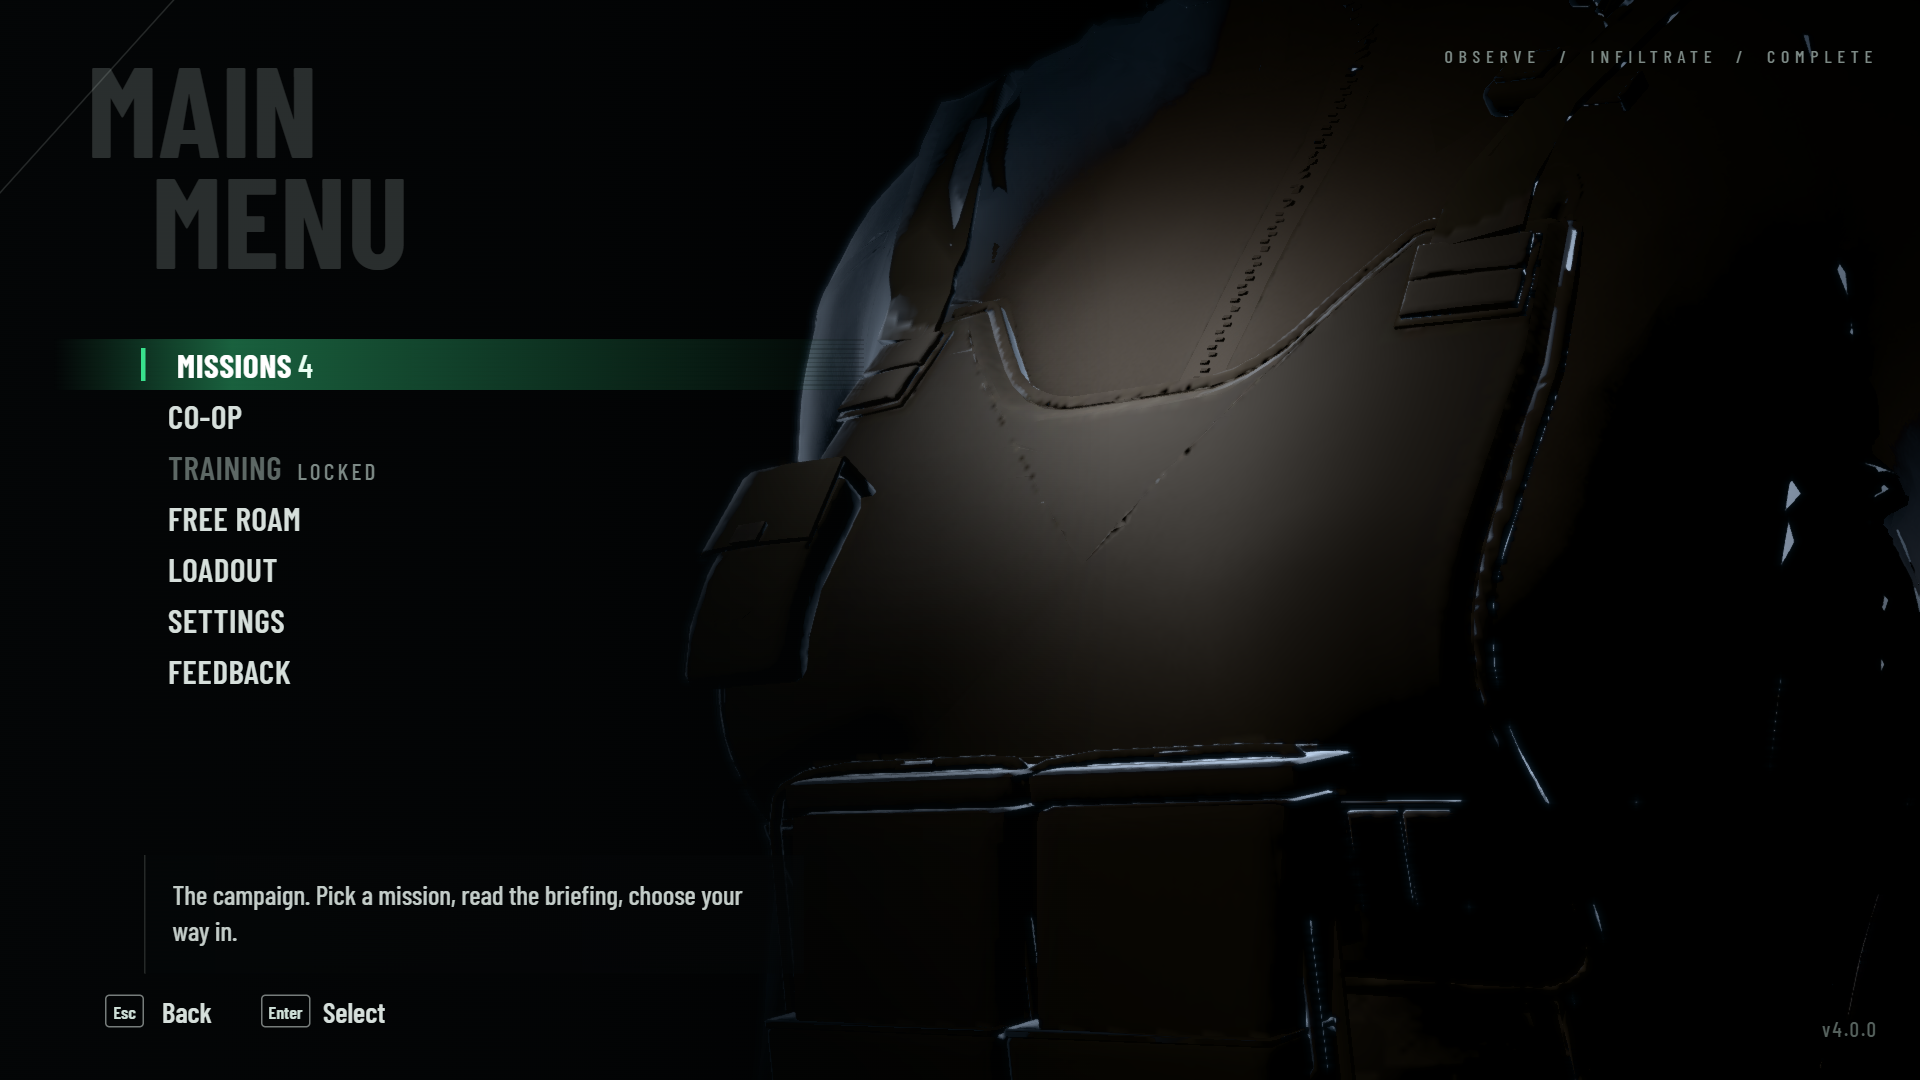
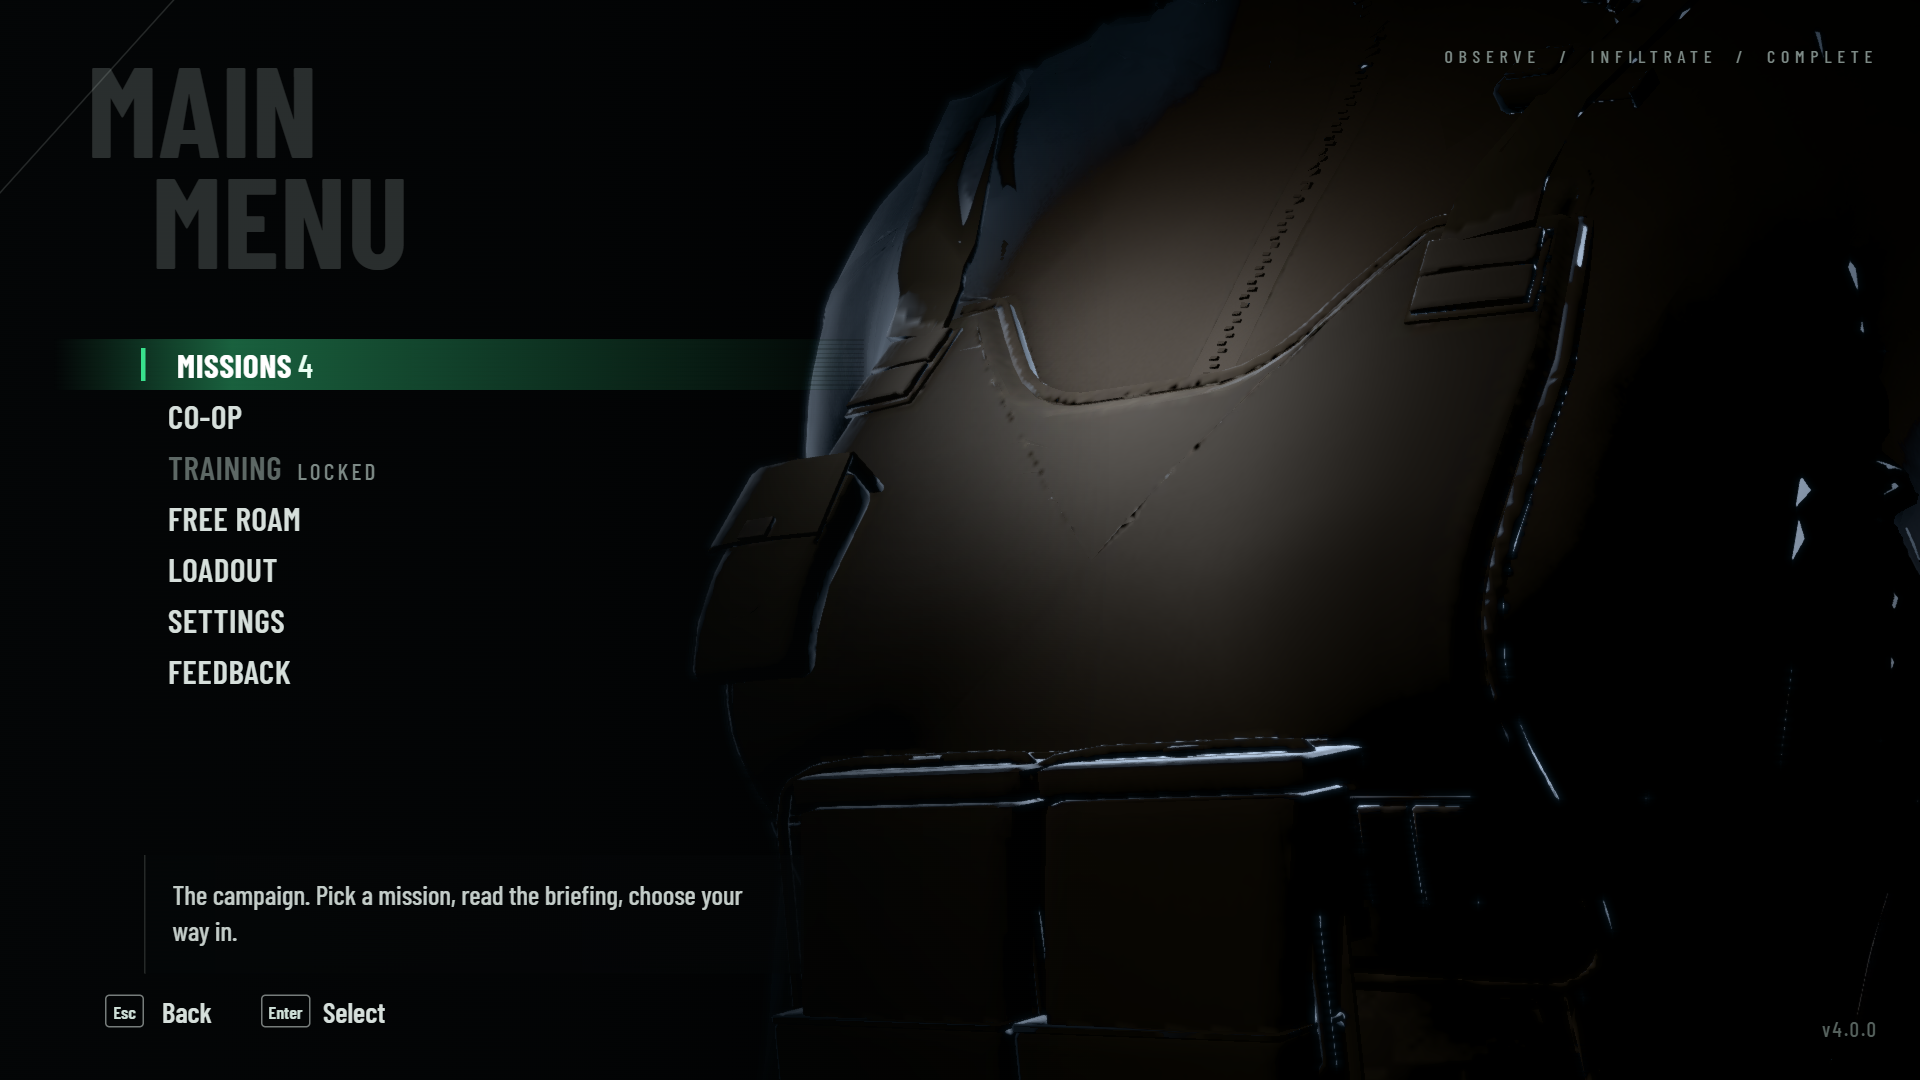
menu slice 6: fine-tune - light, framing, depth of field, dutch roll, eased fades, authored goggle flicker
H1 clear of the description panel; H3/H4 framed onto the pouches; H2/H6 keys rake the
plates; per-shot DOF lens (H1 62 mm); dutch roll on H1, H3, H5; smoothstep black fades;
the title flicker is an authored pattern. Void shadows stay off (the arm blocked the key).

diff --git a/src/world/menuSets.ts b/src/world/menuSets.ts
@@ -47,6 +47,10 @@ export interface HeroShot {
   id: string;
   /** Vertical field of view (rad): a long lens is small. */
   fov: number;
+  /** Depth of field focal length (mm, where the preset has depth of field): longer = a shallower field. Default 50. */
+  lensMm?: number;
+  /** A dutch roll (rad, + clockwise on screen), subtle. */
+  roll?: number;
   from: CamPose;
   to: CamPose;
   /** Where Wren sits across the frame: 0 centre, 1 the right edge (keeps the menu list over black on the left). */
@@ -91,19 +95,19 @@ function macro(target: V3, camAlpha: number, side: number, key: number, keyUp: n
   const cam = -Math.PI / 2 + camAlpha;
   return [
     around(target, cam + side * 1.65, keyUp, 0.85, 0.34, key, KEY, sweep),
-    around(target, cam - side * 2.7, 0.3, 0.9, 0.5, 6, RIM),
+    around(target, cam - side * 2.7, 0.3, 0.9, 0.5, 7, RIM),
     around(target, cam + side * 2.6, 0.2, 0.9, 0.5, 2.5, RIM),
   ];
 }
 
-function equip(id: string, fov: number, from: CamPose, to: CamPose, lights: [SetLight, SetLight, SetLight]): HeroShot {
-  return { id, fov: fov * DEG, from, to, frameX: 0.3, lights };
+function equip(id: string, fov: number, from: CamPose, to: CamPose, lights: [SetLight, SetLight, SetLight], lensMm?: number, roll = 0): HeroShot {
+  return { id, fov: fov * DEG, from, to, frameX: 0.3, lights, lensMm, roll };
 }
 
 /** The title's light (also the main menu's opening hold): a low-key face, a rim, and the goggle's green thrown on the
  *  brow and cheeks (light 2, scaled by the goggle level). */
 const FACE: [SetLight, SetLight, SetLight] = [
-  { pos: [0.5, 1.85, -0.8], at: [0, 1.56, -0.05], angle: 0.5, exponent: 3, intensity: 1.8, color: KEY },
+  { pos: [0.5, 1.85, -0.8], at: [0, 1.56, -0.05], angle: 0.5, exponent: 3, intensity: 2.7, color: KEY },
   { pos: [-0.65, 1.85, 0.55], at: [0, 1.64, 0], angle: 0.5, exponent: 3, intensity: 9, color: RIM },
   { pos: [0, 1.57, -0.3], at: [0, 1.53, 0], angle: 0.7, exponent: 2, intensity: 0.22, color: NV },
 ];
@@ -135,17 +139,17 @@ export const HERO_SHOTS: readonly HeroShot[] = [
     glowLight: 2,
   },
   // the goggle housing and its mount: low from her left front, a long lens arcing in
-  equip('H1', 18, { alpha: 0.85, beta: 1.68, radius: 0.62, target: [0.03, 1.6, -0.12] }, { alpha: 0.55, beta: 1.64, radius: 0.56, target: [0.02, 1.6, -0.13] }, macro([0.02, 1.6, -0.12], 0.7, 1, 2.2, 0.9)),
-  // the plate carrier's front plate: low from her left, pushing in
-  equip('H2', 22, { alpha: 0.75, beta: 1.72, radius: 0.75, target: [0.02, 1.22, -0.13] }, { alpha: 0.62, beta: 1.68, radius: 0.64, target: [0.02, 1.22, -0.14] }, macro([0.02, 1.22, -0.13], 0.7, -1, 4, 0.8)),
+  equip('H1', 18, { alpha: 0.85, beta: 1.68, radius: 0.66, target: [0.03, 1.565, -0.17] }, { alpha: 0.55, beta: 1.64, radius: 0.6, target: [0.02, 1.565, -0.18] }, macro([0.02, 1.6, -0.12], 0.7, 1, 2.2, 0.9), 62, 0.07),
+  // the plate carrier's front plate: low from her left, pushing in while the key slides down the plate
+  equip('H2', 22, { alpha: 0.75, beta: 1.72, radius: 0.75, target: [0.02, 1.22, -0.13] }, { alpha: 0.62, beta: 1.68, radius: 0.64, target: [0.02, 1.22, -0.14] }, macro([0.02, 1.22, -0.13], 0.7, -1, 4, 0.8, [0, 0.07, 0])),
   // the magazine pouches on the carrier: low from her right, sliding across while the key sweeps over them
-  equip('H3', 22, { alpha: -0.7, beta: 1.78, radius: 0.72, target: [-0.08, 1.14, -0.13] }, { alpha: -0.55, beta: 1.74, radius: 0.68, target: [0.06, 1.14, -0.14] }, macro([0, 1.14, -0.13], -0.62, 1, 3.2, 0.5, [0.1, 0, 0])),
+  equip('H3', 22, { alpha: -0.7, beta: 1.74, radius: 0.72, target: [-0.05, 1.06, -0.13] }, { alpha: -0.55, beta: 1.7, radius: 0.68, target: [-0.02, 1.06, -0.14] }, macro([-0.03, 1.06, -0.13], -0.62, 1, 7, 0.5, [0.06, 0, 0]), undefined, -0.09),
   // the belt pouches: low three-quarter from her left, sliding along the belt under a grazing beam
-  equip('H4', 20, { alpha: 0.9, beta: 1.76, radius: 0.82, target: [0.16, 1.0, -0.08] }, { alpha: 0.75, beta: 1.74, radius: 0.76, target: [0.02, 1.0, -0.12] }, macro([0.1, 1.0, -0.1], 0.82, -1, 3.5, 0.25, [0.12, 0, -0.04])),
+  equip('H4', 20, { alpha: 0.45, beta: 1.68, radius: 0.82, target: [-0.05, 0.9, -0.12] }, { alpha: 0.35, beta: 1.66, radius: 0.76, target: [-0.15, 0.9, -0.13] }, macro([-0.09, 0.87, -0.12], 0.4, -1, 3.5, 0.25, [0.12, 0, -0.04])),
   // the thigh holster and pocket on the right leg: from her right, arcing round the front
-  equip('H5', 22, { alpha: -1.35, beta: 1.62, radius: 0.7, target: [-0.17, 0.72, -0.02] }, { alpha: -1.0, beta: 1.58, radius: 0.66, target: [-0.17, 0.74, -0.04] }, macro([-0.17, 0.73, -0.03], -1.18, -1, 2.6, 0.7)),
+  equip('H5', 22, { alpha: -1.35, beta: 1.62, radius: 0.7, target: [-0.17, 0.72, -0.02] }, { alpha: -1.0, beta: 1.58, radius: 0.66, target: [-0.17, 0.74, -0.04] }, macro([-0.17, 0.73, -0.03], -1.18, -1, 2.6, 0.7), undefined, 0.12),
   // the back plate and the kit on it: high from behind her left shoulder, arcing round
-  equip('H6', 26, { alpha: 2.55, beta: 1.2, radius: 0.95, target: [0.02, 1.25, 0.12] }, { alpha: 2.95, beta: 1.25, radius: 0.88, target: [0, 1.25, 0.12] }, macro([0.01, 1.25, 0.12], 2.75, 1, 4.5, 0.8)),
+  equip('H6', 26, { alpha: 2.55, beta: 1.2, radius: 0.95, target: [0.02, 1.25, 0.12] }, { alpha: 2.95, beta: 1.25, radius: 0.88, target: [0, 1.25, 0.12] }, macro([0.01, 1.25, 0.12], 2.75, 1, 7.5, 1.15)),
 ];
 
 /** A visible light cone: additive, fading from the lamp to its far end (apex at the origin, along -Y). */

diff --git a/src/world/menuScene.ts b/src/world/menuScene.ts
@@ -105,6 +105,9 @@ export class MenuState implements AppState {
   private prevRadius = 1;
   private prevFov = 0.8;
   private prevOffset = 0;
+  /** The camera's up for a dutch roll (reused), and the roll it holds now. */
+  private readonly up = new Vector3(0, 1, 0);
+  private rollNow = 0;
   private readonly stageMeshes: AbstractMesh[];
   private activeSet = '';
   private snap = true;
@@ -243,17 +246,17 @@ export class MenuState implements AppState {
       this.shadows.length = 0;
       if (sh.casters > 0) {
         for (const l of this.spots.slice(0, 2)) {
-          l.shadowMinZ = 0.5;
-          if (!this.activeSet || this.activeSet === 'stage') l.shadowMaxZ = 12;
+          if (!this.activeSet || this.activeSet === 'stage') {
+            l.shadowMinZ = 0.5;
+            l.shadowMaxZ = 12;
+          }
           const g = new ShadowGenerator(Math.max(1024, sh.size), l);
           if (sh.soft) {
             g.useContactHardeningShadow = true;
             g.contactHardeningLightSizeUVRatio = 0.05;
           } else g.usePercentageCloserFiltering = true;
           g.filteringQuality = ShadowGenerator.QUALITY_HIGH;
-          g.bias = 0.0008;
-          g.normalBias = 0.01;
-          g.darkness = this.activeSet && this.activeSet !== 'stage' ? 0 : 0.1;
+          this.tuneShadow(g, !!this.activeSet && this.activeSet !== 'stage');
           const sm = g.getShadowMap();
           if (sm) {
             // every mesh but the beams and the floor itself (null list = the whole scene)
@@ -375,7 +378,8 @@ export class MenuState implements AppState {
       for (let i = 0; i < 3; i++) {
         const s = this.spots[i]!;
         this.light(s, set.lights[i]!, VOID_ORIGIN);
-        // no shadows on the close-ups: at this range the body's self-shadow turns it black (acne); polish list
+        // no shadows on the close-ups: a fitted key shadow (bias 0.004) was tried and the arm and shoulders swallowed the
+        // raking key on most pieces (H2-H6 went dark); the rim-and-key look reads better unshadowed
         s.shadowEnabled = false;
       }
       this.hemi.intensity = 0;
@@ -391,15 +395,44 @@ export class MenuState implements AppState {
         s.diffuse.set(...l.color);
         s.specular.set(0.2, 0.2, 0.2);
         s.range = 16;
+        s.shadowMinZ = 0.5;
         s.shadowMaxZ = 12;
         s.shadowEnabled = true;
       });
       this.scene.clearColor.set(0.02, 0.027, 0.043, 1);
       this.camera.fov = 0.8;
+      this.stack.lensMm = 50;
+      this.dutch(0);
       this.setGlow(1);
     }
-    for (const g of this.shadows) g.darkness = set ? 0 : 0.1;
+    for (const g of this.shadows) this.tuneShadow(g, !!set);
     this.weaponLight();
+  }
+
+  /** A dutch roll (rad) about the view axis: the camera's up turned round the line of sight. ArcRotateCamera orbits
+   *  in its up's frame, but a turn about the view axis leaves the orbit offset (along that axis) where it was. */
+  private dutch(roll: number): void {
+    if (roll === 0 && this.rollNow === 0) return;
+    this.rollNow = roll;
+    const c = this.camera;
+    const sb = Math.sin(c.beta);
+    // the view direction (camera to target)
+    const dx = -Math.cos(c.alpha) * sb;
+    const dy = -Math.cos(c.beta);
+    const dz = -Math.sin(c.alpha) * sb;
+    const cr = Math.cos(roll);
+    const sr = Math.sin(roll);
+    // Rodrigues: up' = up cos r + (d x up) sin r + d (d . up)(1 - cos r), up = +Y
+    this.up.set(-dz * sr + dx * dy * (1 - cr), cr + dy * dy * (1 - cr), dx * sr + dz * dy * (1 - cr));
+    c.upVector = this.up;
+  }
+
+  /** Shadow filtering for the stage or the void's close-ups (a larger bias at macro range keeps the self-shadow clean,
+   *  and the shadow side keeps a trace of the key so the material still reads). */
+  private tuneShadow(g: ShadowGenerator, close: boolean): void {
+    g.bias = close ? 0.004 : 0.0008;
+    g.normalBias = close ? 0.025 : 0.01;
+    g.darkness = close ? 0.15 : 0.1;
   }
 
   /** `?gfx=min` only (the software-GL test path): the void's full-frame close-ups shade every pixel with PBR, which
@@ -460,7 +493,8 @@ export class MenuState implements AppState {
       }
     }
     if (d.shot.setup !== this.activeSet) this.showSet(d.shot.setup);
-    const fade = Math.round(d.fade * 100) / 100;
+    // the fade eases (smoothstep) so the black arrives and leaves softly
+    const fade = Math.round(easeInOut(d.fade) * 100) / 100;
     if (fade !== this.fadeShown) {
       this.fadeShown = fade;
       this.fadeEl.style.opacity = `${fade}`;
@@ -515,6 +549,7 @@ export class MenuState implements AppState {
       o.z + a.target[2] + (b.target[2] - a.target[2]) * e,
     );
     cam.fov = set.fov;
+    this.stack.lensMm = set.lensMm ?? 50;
     // Wren sits right of centre, the menu list over black on the left (the offset is in view units at the target)
     const aspect = this.scene.getEngine().getAspectRatio(cam);
     cam.targetScreenOffset.x = set.frameX * radius * Math.tan(set.fov / 2) * aspect;
@@ -544,6 +579,7 @@ export class MenuState implements AppState {
       cam.target.y += (this.prevTarget.y - cam.target.y) * k;
       cam.target.z += (this.prevTarget.z - cam.target.z) * k;
     }
+    this.dutch(set.roll ?? 0);
     const on = set.goggleOn;
     // (a blended change keeps the glow where it was going: on)
     const glow = on ? goggleLevel(t, on[0], on[1]) : 1;

diff --git a/src/world/menuShots.ts b/src/world/menuShots.ts
@@ -274,12 +274,21 @@ export function easeInOut(t: number): number {
   return x * x * (3 - 2 * x);
 }
 
-/** The goggle's power-on (pure): off before `a`, on after `b`, ramping between with a faint flicker. */
+/** The goggle's power-on (pure): off before `a`, on after `b`. Between: two quick blips, a dim stutter, then a warm-up
+ *  ramp with a faint shimmer that settles (a tube striking). */
 export function goggleLevel(t: number, a: number, b: number): number {
   if (t <= a) return 0;
   if (t >= b) return 1;
   const r = (t - a) / (b - a);
-  // a few stutters early in the ramp, settling as it warms
-  const f = Math.sin(t * 431) * Math.sin(t * 173);
-  return Math.max(0, Math.min(1, r * (1 - (1 - r) * 0.6 * (f > 0.2 ? 1 : 0))));
+  if (r < 0.08) return 0;
+  if (r < 0.12) return 0.85;
+  if (r < 0.26) return 0;
+  if (r < 0.29) return 0.55;
+  if (r < 0.34) return 0.1;
+  if (r < 0.38) return 0.7;
+  if (r < 0.46) return 0.05;
+  // the warm-up: from dim to full, a shimmer fading out as it settles
+  const w = (r - 0.46) / 0.54;
+  const shimmer = Math.sin(r * 157) * 0.08 * (1 - w);
+  return Math.max(0, Math.min(1, 0.35 + 0.65 * w * w * (3 - 2 * w) + shimmer));
 }

diff --git a/src/vfx/postStack.ts b/src/vfx/postStack.ts
@@ -239,6 +239,8 @@ export class PostStack {
   /** Depth-of-field focus (m) and whether it is wanted now (aiming, menu operator). */
   focus = 10;
   focusOn = false;
+  /** (menu-ui slice 6) The depth of field's focal length (mm): a longer lens, a shallower field (the menu close-ups). */
+  lensMm = 50;
   /** The pause look's level 0..1 (`pauseLook.ts`): opens the field on `focus` (the local player) while paused. */
   pauseK = 0;
   /** Depth of field exists in this build (the Low preset has none: the pause screen uses a CSS overlay). */
@@ -495,6 +497,7 @@ export class PostStack {
       // (menu-ui MD14) the pause look opens the field on the player; the sim dt is 0 while paused, so ease on a nominal step
       const ap = pausing && (!own || own.enabled) ? Math.max(this.aperture, pauseAperture(this.pauseK)) : this.aperture;
       dof.fStop = fStopFor(ap);
+      dof.focalLength = this.lensMm;
       dof.focusDistance += (this.focus * 1000 - dof.focusDistance) * Math.min(1, (dt > 0 ? dt : pausing ? 1 / 30 : 0) * 10);
     }
   }

diff --git a/tests/menuShots.test.ts b/tests/menuShots.test.ts
@@ -148,7 +148,7 @@ describe('menu hero shots', () => {
     const ids = new Set(HERO_SHOTS.map((h) => h.id));
     for (const s of SHOTS) if (s.setup !== 'stage') expect(ids.has(s.setup)).toBe(true);
     for (let t = 0; t < 100; t += 0.37) expect(Math.abs(idleSway(t))).toBeLessThan(0.04);
-  });
+  }, 30000);
 });
 
 describe('menu shot passes', () => {
@@ -196,5 +196,5 @@ describe('menu shot passes', () => {
     }
     expect(fovs.size).toBeGreaterThanOrEqual(3);
     for (const h of HERO_SHOTS) if (h.id.startsWith('H')) expect(Math.min(Math.abs(h.from.alpha), Math.abs(h.to.alpha))).toBeGreaterThan(0.3);
-  });
+  }, 30000);
 });

diff --git a/docs/menu-ui/SLICE6.md b/docs/menu-ui/SLICE6.md
@@ -116,12 +116,28 @@ Branch `feature/menu`, 2026-10-19 (overnight, unattended). Prototype first (G87)
 - The idle stance (knees slightly bent, arms a little out) reads oddly from a low side angle. It is animation-owned and
   not changed here; the macro shots avoid showing it.
 
+## Fine-tune pass (after checkpoint b1ead8a, until 08:00)
+Progress log with times: `docs/menu-ui/SLICE6-PROGRESS.md`. GPU shots: `docs/menu-ui/shots/6-hero-gpu-*.png`.
+- **Lights**: T1 face key 1.8 -> 2.7; H6 key 4.5 -> 7.5 and raised to rake down the back plate (its edges and fittings
+  read); H3 key 3.2 -> 7 (the magazine pouches read); macro main rim 6 -> 7.
+- **Framing**: H3 lower onto the magazine pouches with a narrower slide, so they stay in frame from start to end. H4 lower
+  onto the belt pouches and further round so the hand leaves the frame (a soft forearm stays at the left edge, behind the
+  list; a high-angle version was tried and read worse). H2's key slides down the plate. H1 reframed up and right (the target lower and forward on
+  the goggle, a touch further out) so both lenses stay clear of the description panel for the whole pass.
+- **Shadows in the void: tried and dropped.** Only the key cast, with its depth range fitted per shot (bias 0.004, normal
+  bias 0.025). There was no acne, but the arm and shoulders swallowed the raking key on H2-H6 (they went dark), so the
+  void stays unshadowed. `tuneShadow()` keeps the stage's values.
+- **Depth of field per shot**: `PostStack.lensMm` drives the DOF focal length; H1 62 mm, others 50 (presets with DOF,
+  high and up). The stage resets it to 50.
+- **Dutch roll**: per-shot roll (H1 +0.07, H3 -0.09, H5 +0.12 rad) via `MenuState.dutch()`, the camera's up turned about
+  the line of sight. Start, middle and end frames checked: the framing holds.
+- **Fades** ease (smoothstep). **Title flicker**: `goggleLevel` is authored (two blips, a stutter, a warm-up ramp with a
+  shimmer that settles).
+- `scripts/menu-shots6.mjs`: a 180 s screenshot timeout (software GL under load timed out at 30 s).
+
 ## Skipped / polish list
-- Light tuning per shot (next, after the checkpoint; Michael allows fine-tuning until 08:00): H4's near pouch is soft and large at the frame edge, H6 is dark, and
-  the T1 face could take a touch more key.
-- Shadows on the close-ups: contact-hardening or a tighter frustum per shot, to get self-shadow without acne.
-- A dutch angle (ArcRotateCamera has no roll; it needs a custom camera or a post roll).
-- Depth of field: the post stack focuses at the camera radius when the preset enables DOF. Not tuned per shot.
+- Shadows on the close-ups: a key that casts but is not blocked by the arm needs per-mesh casters (the body is one skinned
+  mesh) or keys placed clear of the arms; not done.
 - The SPEC 8.1 rooms (S1-S5), S7 lobby stack, phones, `perf.mjs --menu` and the SPEC 8.4 budgets, the
   `menu-sheet.mjs` contact sheet (`menu-shots6.mjs` covers the stills), removing `DevMenuScreen`.
 - A menu reduced-motion setting (MD17): the director reads the OS preference only.
@@ -133,4 +149,13 @@ Branch `feature/menu`, 2026-10-19 (overnight, unattended). Prototype first (G87)
   per launch).
 
 ## Results
-(filled in below)
+- Checkpoint b1ead8a: `npm run check`, smoke, e2e-menus and e2e-desktop green.
+- Fine-tune pass (2026-10-19, 05:10), port 4191, one runner at a time, `E2E_SUITE_TIMEOUT=1700`, another session loading
+  the PC:
+  - `npm run check`: pass (lint 0 errors / 41 warnings, 141 files / 1600 tests pass, 1 skipped, build ok).
+  - e2e-menus: pass. smoke: pass.
+  - e2e-desktop: failed once on "the result is saved as a performance note without a tap" (the benchmark's feedback save
+    raced the assert at 3 fps under load; not menu-background code), then passed on a solo rerun (634 s).
+- Shots: `docs/menu-ui/shots/6-hero-gpu-*.png` (GPU, `SHOT_GFX=high`, hero LOD) and `6-hero-*.png` (software GL; T1 and H1
+  show LOD2 there, layout only).
+- GPU perf of the void: pending a PC run with `perf.mjs` (not run).

diff --git a/docs/menu-ui/SLICES.md b/docs/menu-ui/SLICES.md
@@ -11,7 +11,7 @@ docs/menu-ui/AGENT-PREAMBLE.md), light check, commit, push, screenshots to Micha
 | 4 | Missions, briefing, issued-kit view (07, 08; fixed kits D-11) | Done (SLICE4.md) |
 | 5 | Pause (blur, player sharp, objectives G108) and results (10) | Done (SLICE5.md); rerun: e2e-menus, e2e-mouse, e2e-pad pass; e2e-coop known flaky (offline state step) |
 | 5b | Michael's /ct/ playtest notes (docs/ct-prototype/PLAYTEST-1.md): Brightness and Quit to menu drew under the menu labels (z-index 1); fix: `.dialog-screen { z-index: 2 }` (a stacking context on every screen slowed software-GL frames and broke e2e-menus' slider repeat). Removed the dead rows Aim assist, Camera recentres, Grab (settings fields kept, no save change). Remap follows CT-CONTROLS.md via the bind tables: no menu work | Done 2026-10-19; e2e-menus and smoke pass |
-| 6 | Cinematic background with Wren's poses (11-13) | Wren merged (PR #5); running 2026-10-19 overnight, prototype quality (CLAUDE.md "Current goal") |
+| 6 | Cinematic background (11-13), reworked to Michael's direction overnight: hero title (Wren facing the lens, goggle flicker-on, carried into the main menu without a cut) and equipment / armour macros H1-H6 in a black void | Done 2026-10-19 (b1ead8a + fine-tune), SLICE6.md; check, e2e-menus, smoke, e2e-desktop pass. Open: GPU perf check, /preview/ pointer (push to dev blocked by permissions, Michael to move it) |
 
 Resume: `git status` in C:\NightShift\Mobile-Coop-menu shows a running slice's uncommitted work; finish it from its
 SLICE<n>.md / the brief above, check, commit, push, then the next slice.

diff --git a/docs/menu-ui/SLICE6-PROGRESS.md b/docs/menu-ui/SLICE6-PROGRESS.md
@@ -1,0 +1,10 @@
+# Slice 6 fine-tune progress
+
+One line per meaningful GPU set (`docs/menu-ui/shots/6-hero-gpu-*.png`, E2E_GPU=1 SHOT_GFX=high).
+
+- 04:12 First GPU set of the fine-tune edits. The fitted key shadow darkened H2-H6 (arm and shoulders swallow the raking key), so the void is unshadowed again; H6 key 7.5 now reads; dutch rolls (H1, H3, H5) frame fine; DOF lens in.
+- 04:40 H3 framed lower onto the magazine pouches and key 3.2->7 (the pouches read now); H4 framed lower onto the belt pouches and round so the hand leaves the frame (a soft forearm stays at the left edge, behind the list); H6 key raised to rake down the back plate (its edges and fittings read).
+- 05:00 Full GPU set: H3 slide narrowed so the pouches stay in frame start to end; H4 kept low (a high-angle try read worse) with the key aimed at the belt line; H2 key now slides down the plate. Pass start / end frames checked for H1-H6 (framing holds; dutch rolls fine).
+- 04:52 Software-GL set regenerated (6-hero-*.png; the script's screenshot timeout raised to 180 s, software GL under load took over 30 s). T1 there shows LOD2 (layout only). Tuning stopped here; final checks next.
+- 04:51 H1 reframed up and right (target lower and forward onto the goggle, radius 0.62/0.56 -> 0.66/0.6): both lenses clear the description panel from start to end of the pass (orchestrator's note). GPU and software H1 regenerated.
+- 05:10 Final: npm run check pass; e2e-menus, smoke pass; e2e-desktop failed once (benchmark feedback-save race under load, unrelated), passed solo. SLICE6.md Results filled in.
